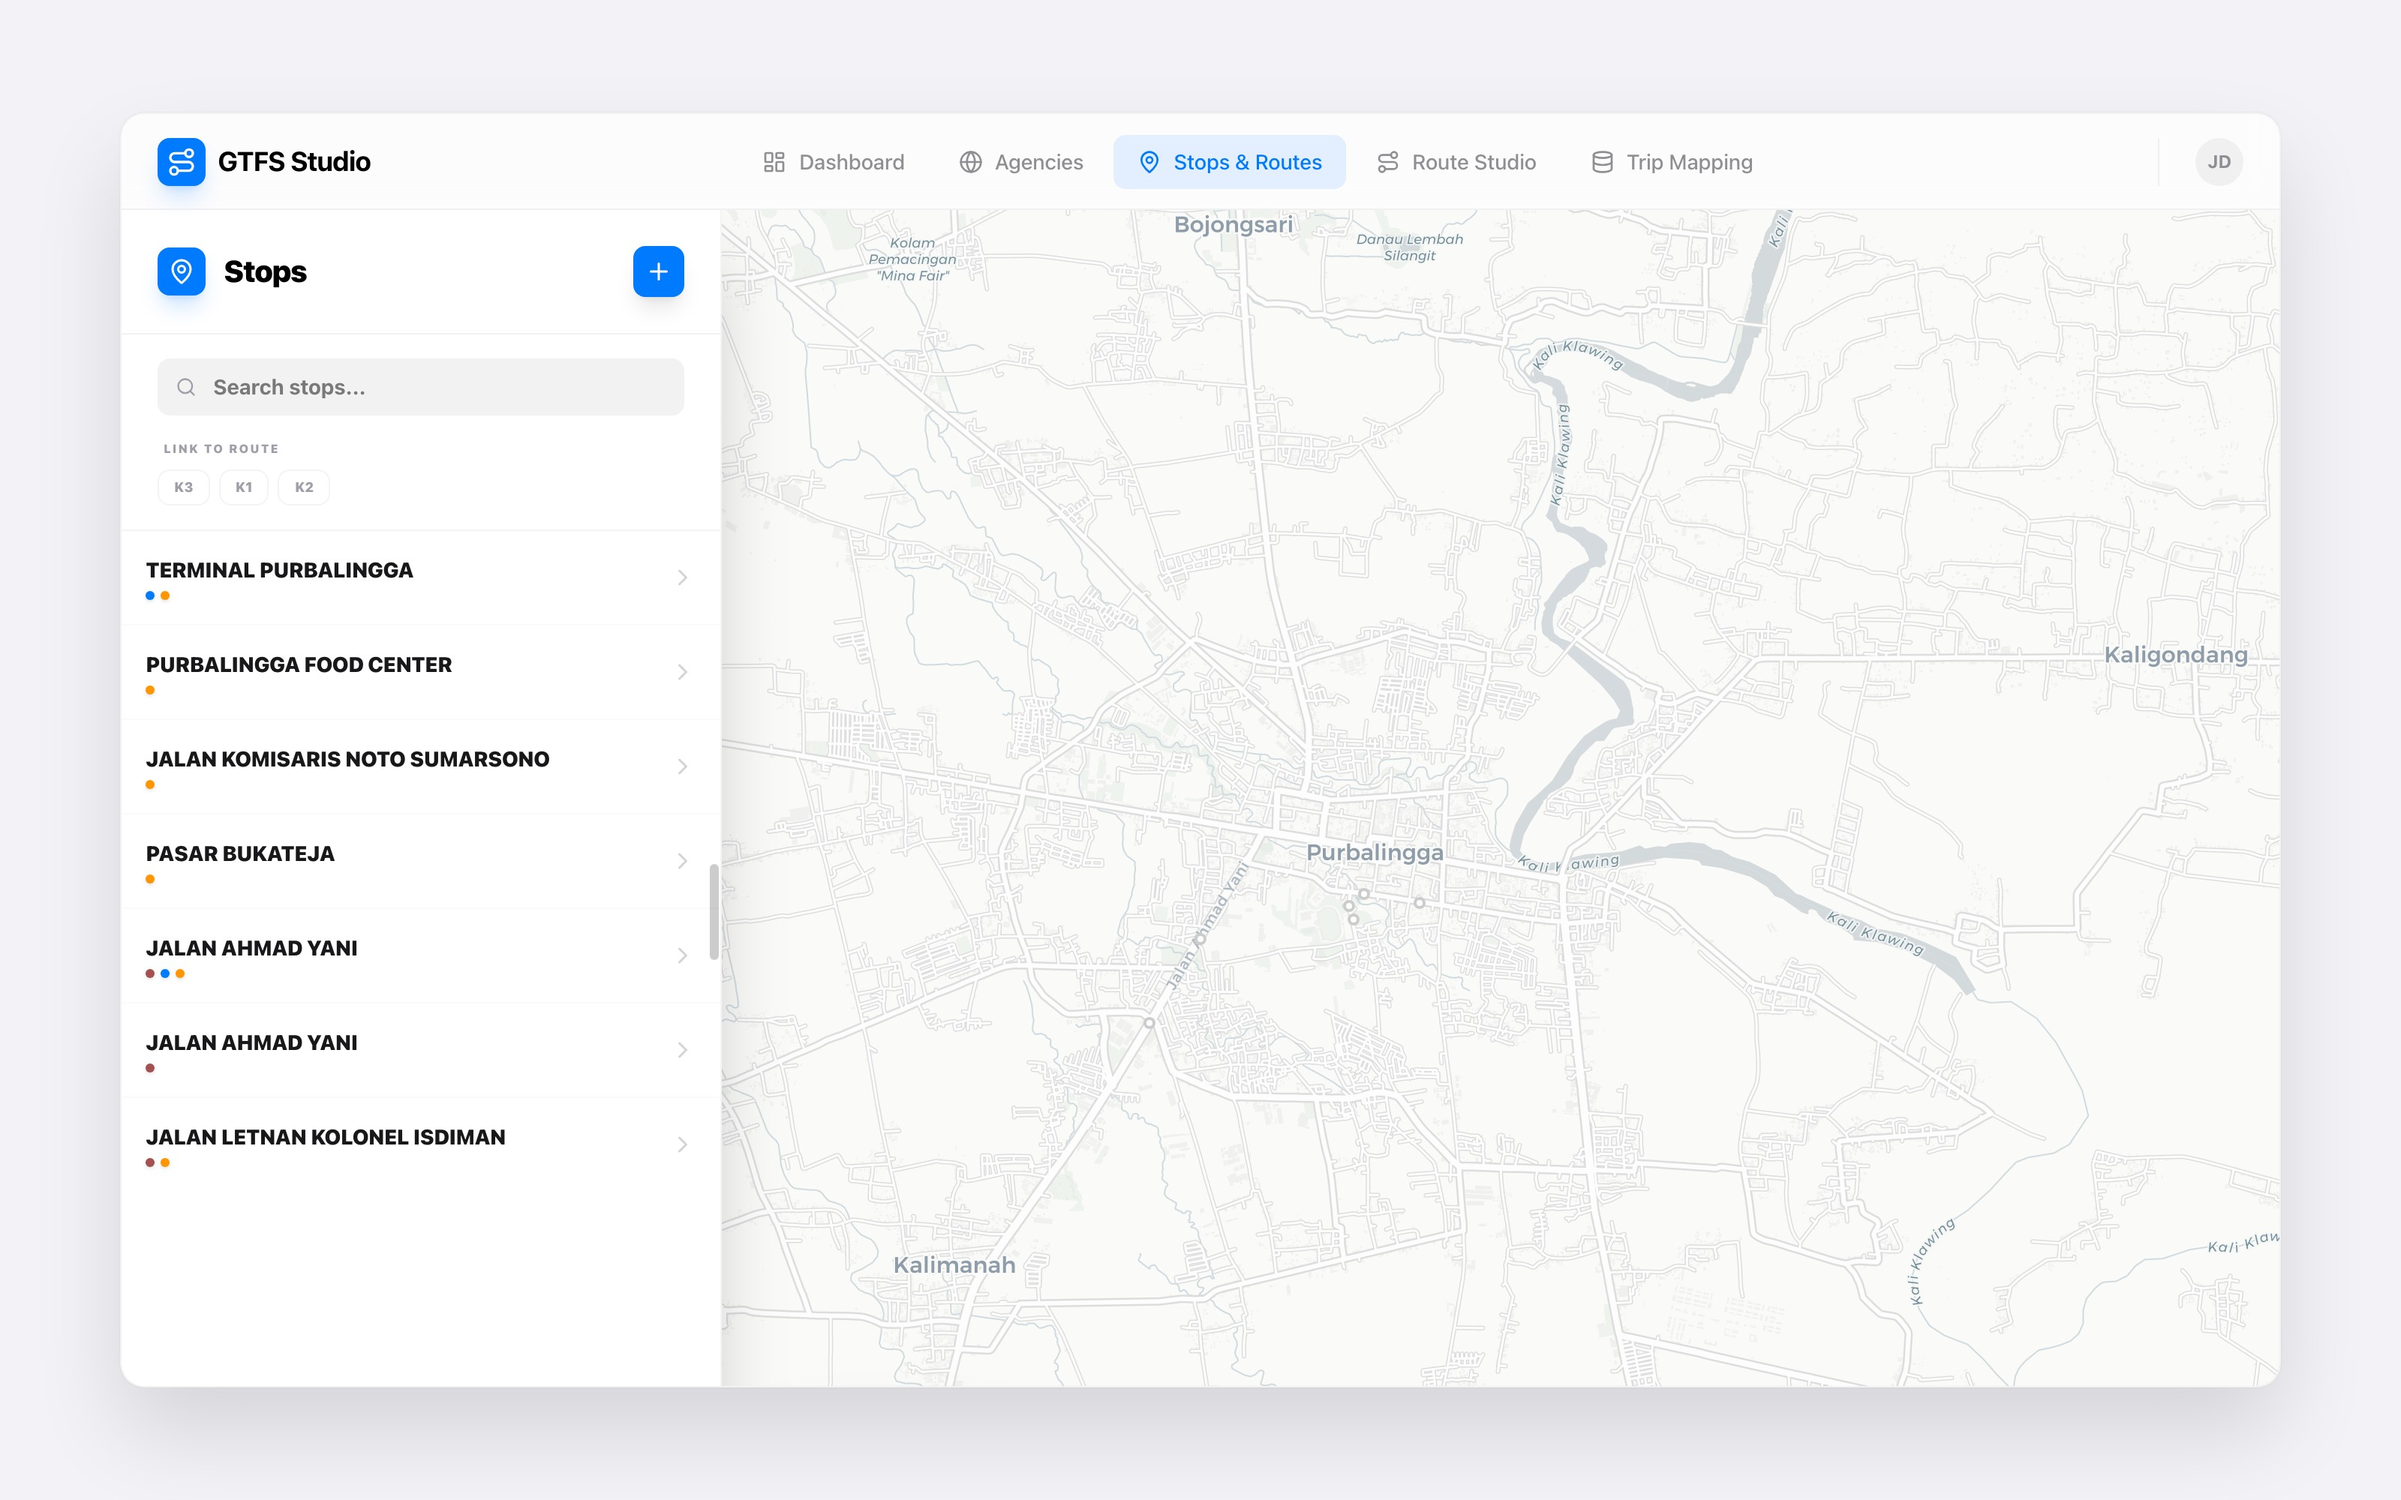
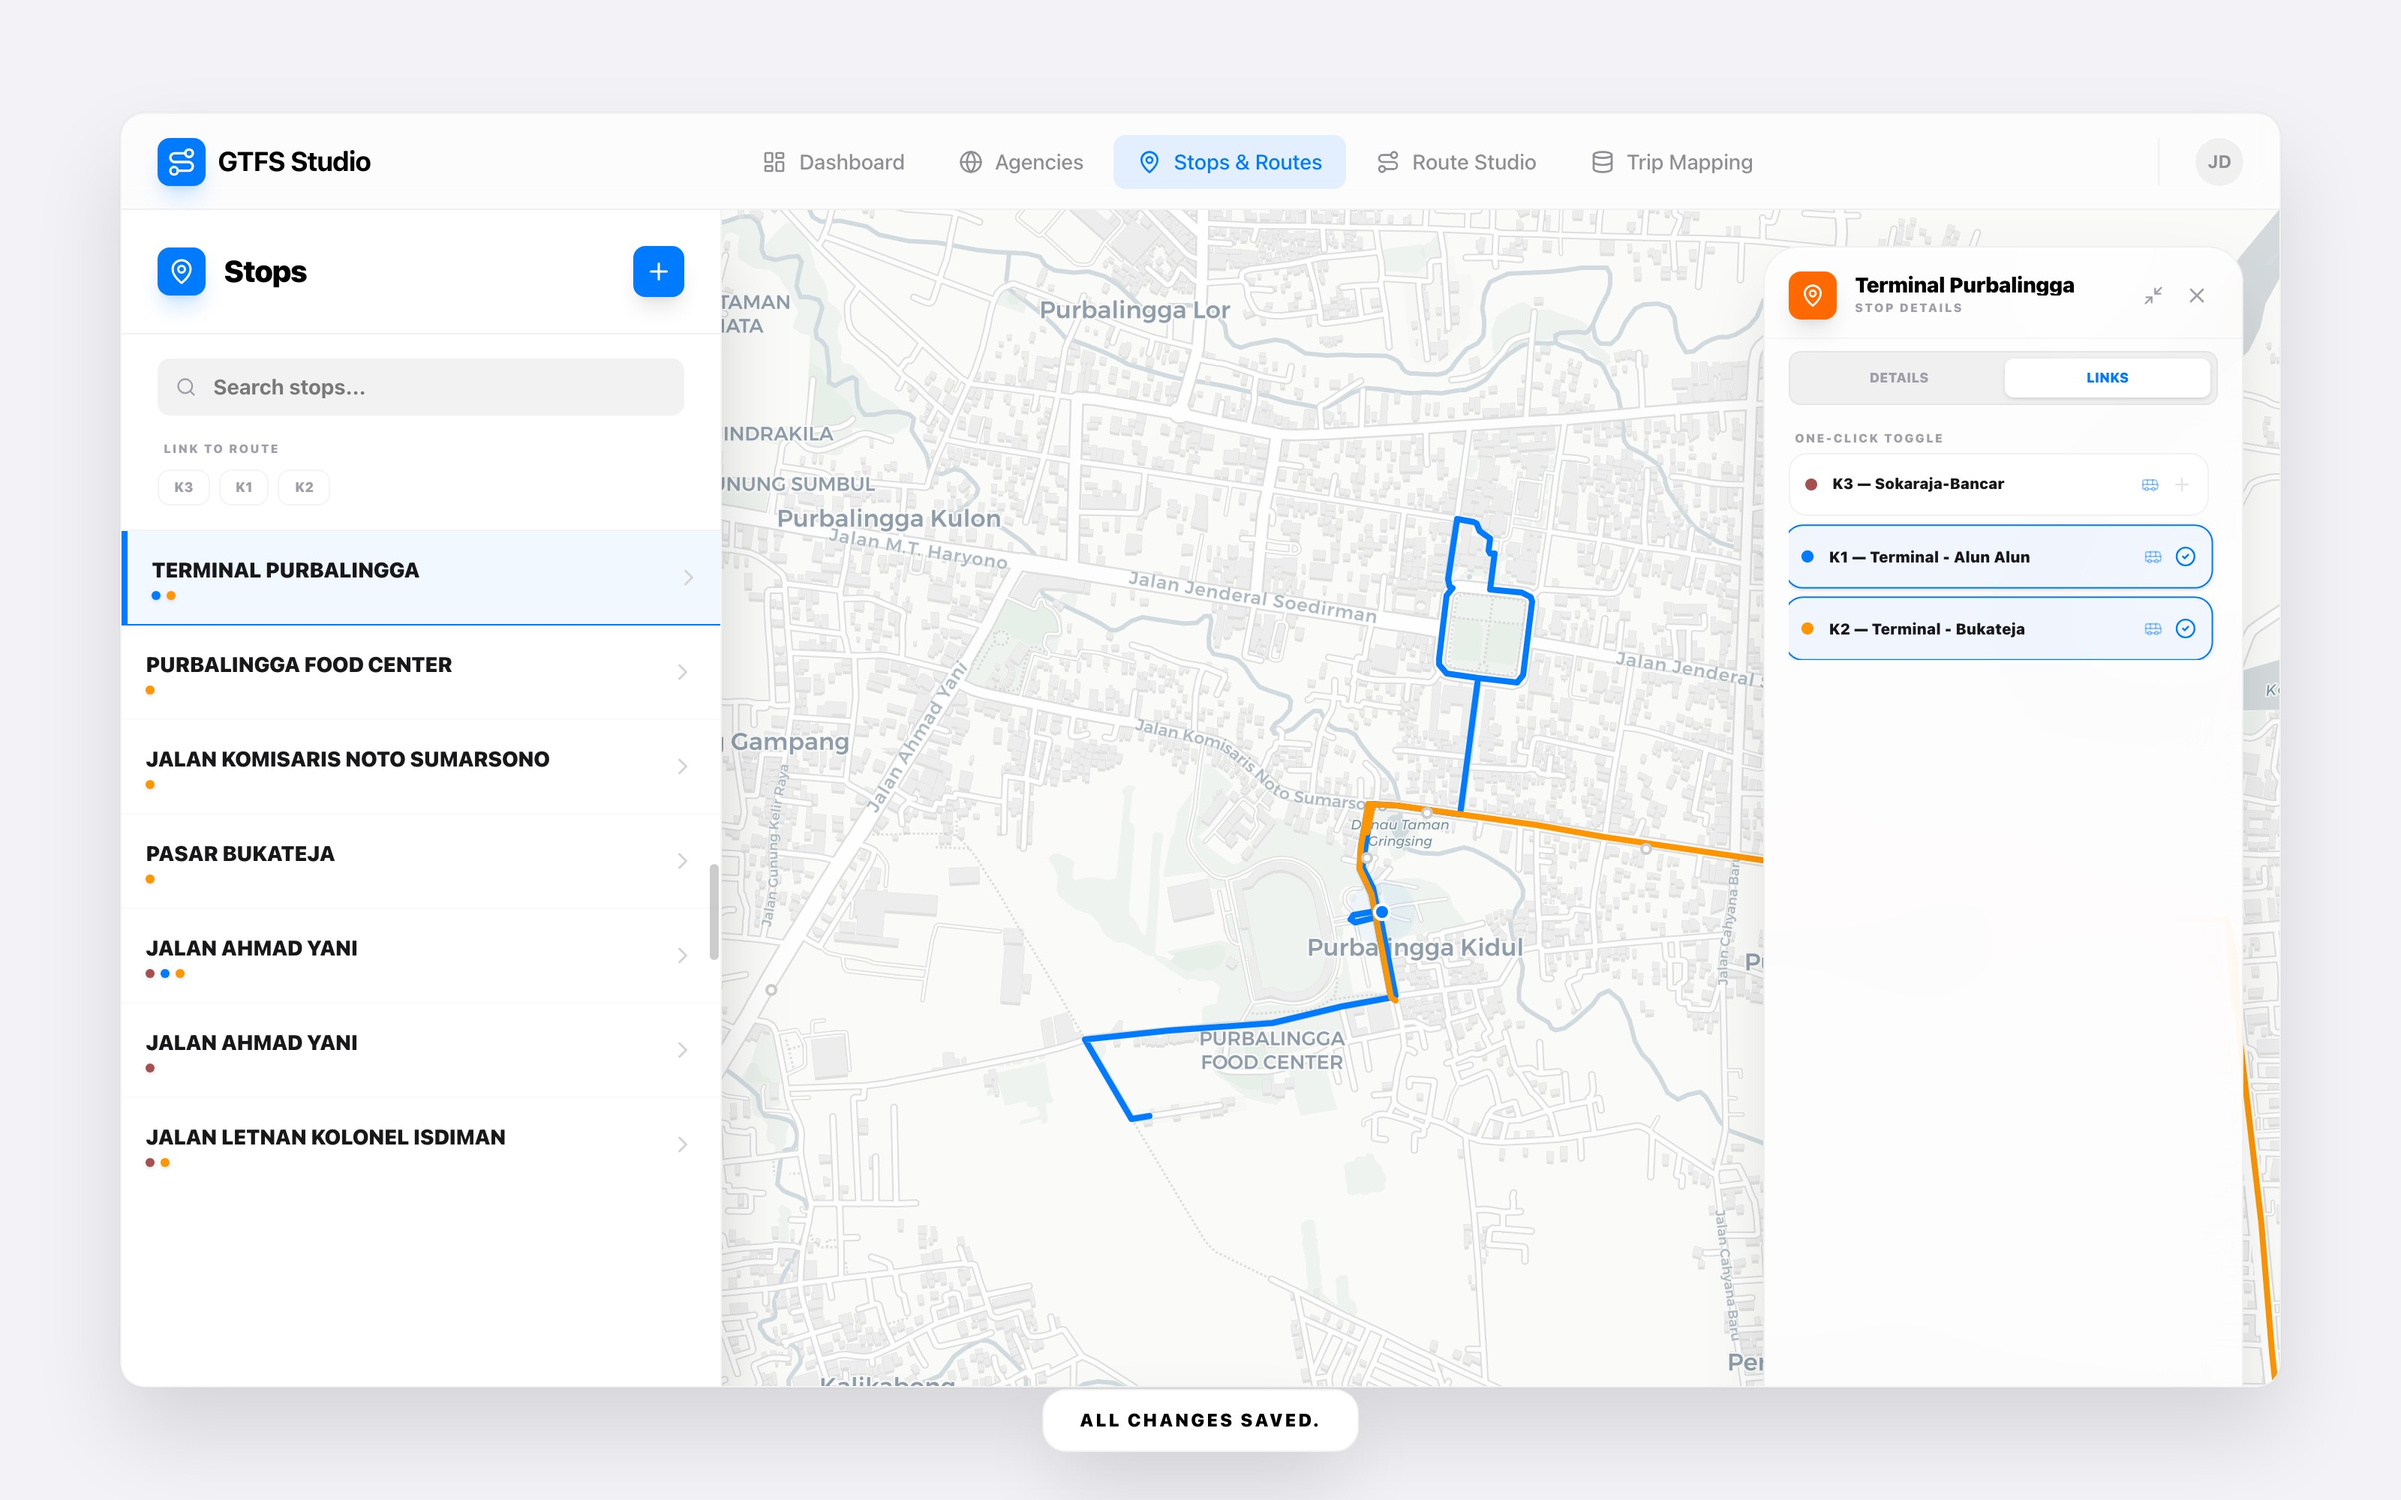
docs: refresh Stops and Agencies screenshots to show fully active hubs and route assignments

diff --git a/scripts/capture_screenshots.js b/scripts/capture_screenshots.js
@@ -8,7 +8,7 @@ const PAGES = [
   { name: 'route-studio-path', url: 'http://localhost:5173/routes' },
   { name: 'route-studio-info', url: 'http://localhost:5173/routes' },
   { name: 'trip-mapping', url: 'http://localhost:5173/trips' },
-  { name: 'micro-interactions', url: 'http://localhost:5173/stops' }, // New interaction showcase
+  { name: 'micro-interactions', url: 'http://localhost:5173/stops' },
 ];
 
 const OUTPUT_DIR = path.join(__dirname, '..', 'assets', 'screenshots');
@@ -31,30 +31,36 @@ const OUTPUT_DIR = path.join(__dirname, '..', 'assets', 'screenshots');
         
         // --- Interaction Logic ---
         
-        // Common selection logic for lists
         const selectFirstItem = async () => {
-            await page.waitForSelector('div[class*="cursor-pointer"]', { timeout: 10000 });
+            await page.waitForSelector('div[class*="cursor-pointer"]', { timeout: 15000 });
             const items = await page.$$('div[class*="cursor-pointer"]');
-            if (items.length > 0) await items[0].click();
+            if (items.length > 0) {
+                await items[0].click();
+                await page.waitForTimeout(1000);
+            }
         };
 
         if (item.name === 'route-studio-path') {
             await selectFirstItem();
-            await page.waitForTimeout(1000);
             await page.click('button:has-text("Path")').catch(() => {});
             await page.waitForTimeout(2000);
         }
         
         if (item.name === 'route-studio-info') {
             await selectFirstItem();
-            await page.waitForTimeout(1000);
             await page.click('button:has-text("Details")').catch(() => {});
             await page.waitForTimeout(2000);
         }
 
         if (item.name === 'agencies') {
             await selectFirstItem();
-            await page.waitForTimeout(3000);
+            await page.waitForTimeout(3000); // Wait for geometry to load
+        }
+
+        if (item.name === 'stop-and-routes') {
+            await selectFirstItem();
+            await page.click('button:has-text("Links")').catch(() => {}); // Show route assignments
+            await page.waitForTimeout(2000);
         }
 
         if (item.name === 'trip-mapping') {
@@ -63,11 +69,10 @@ const OUTPUT_DIR = path.join(__dirname, '..', 'assets', 'screenshots');
         }
 
         if (item.name === 'micro-interactions') {
-            // Trigger a hover effect on a stop to show the Orange Pulse and associated Routes
             await page.waitForSelector('div[class*="cursor-pointer"]', { timeout: 10000 });
             const stops = await page.$$('div[class*="cursor-pointer"]');
             if (stops.length > 1) {
-                await stops[1].hover(); // Hover the second stop for visual depth
+                await stops[1].hover();
                 await page.waitForTimeout(1500);
             }
         }
